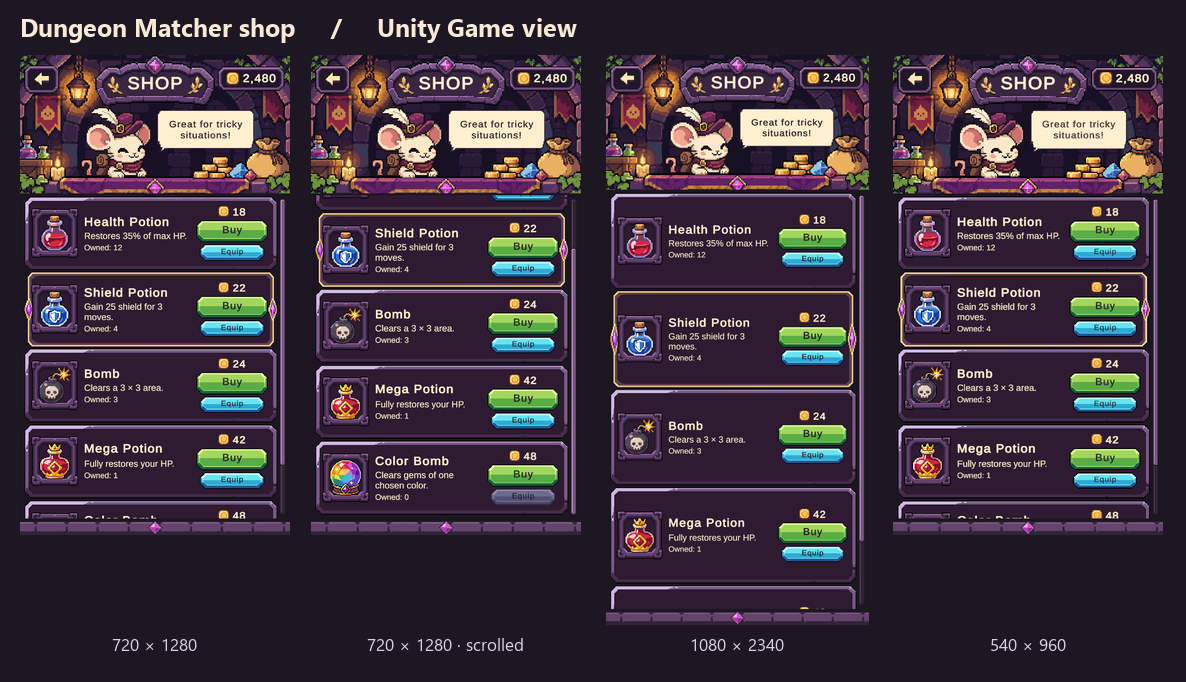
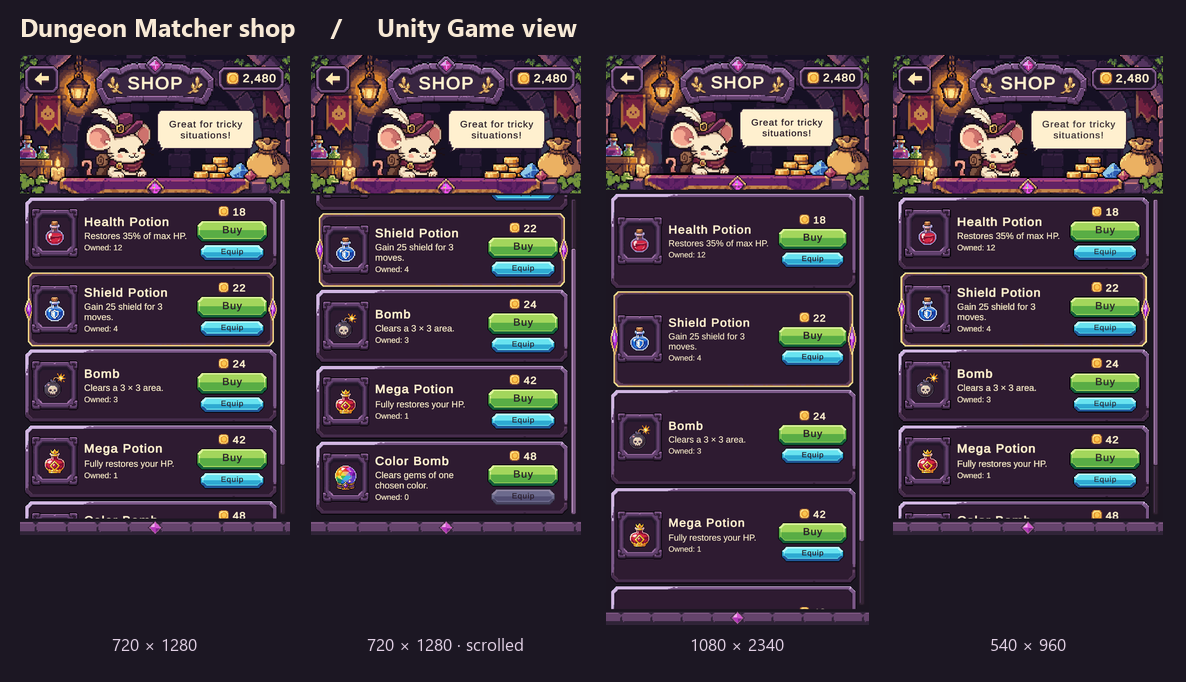
Give every shop item clear space inside its socket

diff --git a/Assets/_Game/Scripts/Editor/MouseMerchantTests.cs b/Assets/_Game/Scripts/Editor/MouseMerchantTests.cs
@@ -124,6 +124,14 @@ public sealed class MouseMerchantTests
                 var icon = (RectTransform)well.Find("ItemIcon");
                 Assert.That(icon.pivot, Is.EqualTo(new Vector2(.5f, .5f)));
                 Assert.That(Vector3.Distance(well.TransformPoint(well.rect.center), icon.TransformPoint(icon.rect.center)), Is.LessThan(.1f));
+                var socket = well.GetComponent<Image>();
+                Vector4 rim = socket.sprite.border / (socket.pixelsPerUnit * socket.pixelsPerUnitMultiplier);
+                // Measure empty space inside the stone on all four sides, in shop layout units.
+                Bounds itemBounds = RectTransformUtility.CalculateRelativeRectTransformBounds(well, icon);
+                Assert.That(itemBounds.min.x - (well.rect.xMin + rim.x), Is.GreaterThanOrEqualTo(8f), row.name + " left");
+                Assert.That(itemBounds.min.y - (well.rect.yMin + rim.y), Is.GreaterThanOrEqualTo(8f), row.name + " bottom");
+                Assert.That(well.rect.xMax - rim.z - itemBounds.max.x, Is.GreaterThanOrEqualTo(8f), row.name + " right");
+                Assert.That(well.rect.yMax - rim.w - itemBounds.max.y, Is.GreaterThanOrEqualTo(8f), row.name + " top");
                 var group = (RectTransform)body.Find("PriceGroup");
                 var price = (RectTransform)group.Find("Price");
                 var priceCoin = (RectTransform)group.Find("Coin");

diff --git a/Assets/_Game/Scripts/UI/ShopMenuController.cs b/Assets/_Game/Scripts/UI/ShopMenuController.cs
@@ -127,7 +127,12 @@ public sealed class ShopMenuController : MonoBehaviour
         rows.Add(row);
         var parent = row.body = Box("Contents", row.root, 0, 0, 449, 116);
         var well = Picture("ItemSocket", parent, "Socket", 12, 14, 83, 88, sliced: true);
-        Picture("ItemIcon", well.transform, kind.ToString(), 10.5f, 12, 62, 64, preserve: true);
+        var icon = Picture("ItemIcon", well.transform, kind.ToString(), 0, 0, 0, 0, preserve: true);
+        Stretch(icon.rectTransform);
+        // The nine-sliced stone rim uses part of the inset. Leave empty face around the silhouette.
+        const float itemInset = 22;
+        icon.rectTransform.offsetMin = new Vector2(itemInset, itemInset);
+        icon.rectTransform.offsetMax = -icon.rectTransform.offsetMin;
 
         var details = Box("Details", parent, 106, 8, 191, 100);
         var stack = details.gameObject.AddComponent<VerticalLayoutGroup>();

diff --git a/ArtSource/MouseMerchant/README.md b/ArtSource/MouseMerchant/README.md
@@ -25,3 +25,5 @@ The board and equipped bomb slot use a 60 × 60 rainbow gem on a 64 × 64 canvas
 [Editable animation](../BombReadability/SelectedIdles/Editable/Star.aseprite) · [Board master](BoardColorBomb.png) · [Before and after in the shop](Shop-alignment-comparison.png)
 
 The revision passed the repository validator and 13 affected Unity tests on 6000.3.19f1. Those tests cover all five item sockets, prices aligned above their buttons at three portrait sizes, scroll and purchase behavior, the equipped Color Bomb icon, idle and reduced-motion behavior, and an actual board Color Crystal swap. All 32 native cels also passed the LibreSprite round-trip and glint coverage checks.
+
+All five items have a shared inset inside the shop socket. At 720 × 1280, each silhouette has at least eight rendered pixels of clear space before the inner bevel. The previous layout left zero at the closest point. The shop tests passed at 540 × 960, 720 × 1280 and 1080 × 2340. [Compare all five items in Unity](Shop-item-padding.png).
